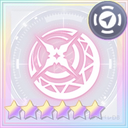
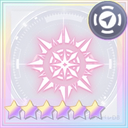
chore: update orders

Changed region(s): [[0.2188, 0.2188, 0.8125, 0.7812]]

diff --git a/MitamatchOperations/MitamatchOperations/Domain/Orders.cs b/MitamatchOperations/MitamatchOperations/Domain/Orders.cs
@@ -625,18 +625,18 @@ namespace mitama.Domain {
                     Kinds.Other
                 ),
                 (
-                    "覚醒の満月",
+                    "覚醒の大天光",
                     "補助スキル発動率上昇Lv.4",
                     "味方全体のレギオンマッチ補助スキル発動率が超特大上昇（75%）。",
-                    (2275, 2258, 1570, 1560),
+                    (2677, 1899, 2688, 1879),
                     (20, 90),
                     Kinds.TriggerRateFluctuation
                 ),
                 (
-                    "満月の覚醒妨害",
+                    "大天光の覚醒妨害",
                     "補助スキル発動率減少Lv.4",
                     "敵全体のレギオンマッチ補助スキル発動率が超特大減少（65%）。",
-                    (1566, 1567, 2242, 2239),
+                    (1896, 2676, 1890, 2708),
                     (20, 90),
                     Kinds.TriggerRateFluctuation
                 )

diff --git a/MitamatchOperations/MitamatchOperations/Algorithm/IR/Match.cs b/MitamatchOperations/MitamatchOperations/Algorithm/IR/Match.cs
@@ -56,7 +56,7 @@ internal class Match {
                 }
                 catch (Exception ex)
                 {
-                    throw new Exception($"{memoria.Name}\n{ex.ToString()}");
+                    throw new Exception($"{memoria.Name}が見つかりません:\n{ex}");
                 }
             }));
 
